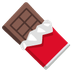
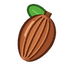
リラックスカカオの食材アイコンを自作アイコンへ変更
- tools/food-icons/make.py に draw_cacao() を追加し、Noto Emoji の板チョコ(🍫)から自作のカカオポッドアイコンへ差し替え
- crates/pokesle-app/assets/food/soothingcacao.png を再生成
- crates/pokesle-app/assets/food/README.md のライセンス一覧に soothingcacao.png (MIT) を追記

diff --git a/tools/food-icons/make.py b/tools/food-icons/make.py
@@ -34,7 +34,7 @@ MAPPING = {
     "pureoil.png": "draw:oil",           # ピュアなオイル: 自作
     "warmingginger.png": "1fada",        # あったかジンジャー: 🫚
     "snoozytomato.png": "1f345",         # あんみんトマト: 🍅
-    "soothingcacao.png": "1f36b",        # リラックスカカオ: 🍫
+    "soothingcacao.png": "draw:cacao",     # リラックスカカオ: 自作(カカオポッド)
     "slowpoketail.png": "draw:tail",     # おいしいシッポ: 自作
     "greengrasssoybeans.png": "cream:1fad8",  # ワカクサ大豆: 🫘 を本家に近いクリーム色に塗り替え
     "greengrasscorn.png": "1f33d",       # ワカクサコーン: 🌽
@@ -366,6 +366,97 @@ def draw_leek() -> Image.Image:
     return im.resize((128, 128), Image.LANCZOS)
 
 
+def draw_cacao() -> Image.Image:
+    """リラックスカカオの自作アイコン(縦筋のあるカカオポッド＋小さな葉)"""
+    im = Image.new("RGBA", (128 * S, 128 * S), (0, 0, 0, 0))
+    d = ImageDraw.Draw(im)
+    outline = (76, 32, 16)
+
+    cx0, cy0 = 64.0, 68.0
+    ang = math.radians(26.0)
+    ca, sa = math.cos(ang), math.sin(ang)
+
+    def pod_pt(along: float, across: float) -> tuple[float, float]:
+        # along: -1(上・ヘタ側) 〜 +1(下・先端側), across: 左右方向
+        x = cx0 + across * ca - along * 44.0 * sa
+        y = cy0 + across * sa + along * 44.0 * ca
+        return x, y
+
+    def pod_w(t: float) -> float:
+        base = max(0.0, 1.0 - t * t) ** 0.62
+        return 27.5 * base * (1.0 - 0.14 * t)
+
+    def pod_poly(expand: float = 0.0, shift_x: float = 0.0, scale_w: float = 1.0) -> list[tuple[float, float]]:
+        n = 60
+        left, right = [], []
+        for i in range(n + 1):
+            t = -1.0 + 2.0 * i / n
+            w = pod_w(t) * scale_w + expand
+            lx, ly = pod_pt(t, -w + shift_x)
+            rx, ry = pod_pt(t, w + shift_x)
+            left.append((lx * S, ly * S))
+            right.append((rx * S, ry * S))
+        return left + list(reversed(right))
+
+    # 1. 小さな葉(左上・奥側)
+    def leaf_poly(expand: float = 0.0) -> list[tuple[float, float]]:
+        pts = []
+        n = 48
+        lang = math.radians(-52.0)
+        lca, lsa = math.cos(lang), math.sin(lang)
+        lx0, ly0 = pod_pt(-0.92, -16.0)
+        for i in range(n):
+            th = 2 * math.pi * i / n
+            u = math.sin(th) * (10.5 + expand)
+            v = -math.cos(th) * (18.5 + expand)
+            pts.append(((lx0 + u * lca - v * lsa) * S, (ly0 + u * lsa + v * lca) * S))
+        return pts
+
+    d.polygon(leaf_poly(3.6), fill=(38, 86, 30))
+    d.polygon(leaf_poly(0.0), fill=(86, 172, 60))
+    # 葉脈
+    l_start = pod_pt(-0.88, -6.0)
+    l_end = pod_pt(-0.96, -28.0)
+    d.line([(l_start[0] * S, l_start[1] * S), (l_end[0] * S, l_end[1] * S)], fill=(134, 210, 92), width=2 * S)
+
+    # 2. ヘタ(右上)
+    stem_pts = [pod_pt(-0.88, -4.5), pod_pt(-1.18, -3.0), pod_pt(-1.18, 3.0), pod_pt(-0.88, 4.5)]
+    d.line([(pod_pt(-0.88, 0.0)[0] * S, pod_pt(-0.88, 0.0)[1] * S), (pod_pt(-1.18, 0.0)[0] * S, pod_pt(-1.18, 0.0)[1] * S)], fill=outline, width=13 * S)
+    d.polygon([(x * S, y * S) for x, y in stem_pts], fill=(128, 76, 40))
+
+    # 3. カカオポッド本体の縁取りとベース
+    d.polygon(pod_poly(expand=4.0), fill=outline)
+    d.polygon(pod_poly(expand=0.0), fill=(156, 78, 42))
+
+    # 左上側の明るい立体面と右下の影面
+    d.polygon(pod_poly(expand=0.0, shift_x=-3.5, scale_w=0.76), fill=(182, 98, 54))
+    d.polygon(pod_poly(expand=0.0, shift_x=-6.0, scale_w=0.45), fill=(198, 114, 66))
+
+    # 4. 縦のうね(溝とハイライトのペア)
+    for k in (-0.56, -0.18, 0.22, 0.60):
+        groove_pts = []
+        hi_pts = []
+        for i in range(41):
+            t = -0.88 + 1.76 * i / 40
+            w = pod_w(t)
+            gx, gy = pod_pt(t, k * w)
+            hx, hy = pod_pt(t, k * w - 2.6)
+            groove_pts.append((gx * S, gy * S))
+            hi_pts.append((hx * S, hy * S))
+        d.line(hi_pts, fill=(214, 134, 82), width=2 * S)
+        d.line(groove_pts, fill=(102, 44, 20), width=3 * S)
+
+    # 5. 左上のツヤ
+    shine_pts = []
+    for i in range(25):
+        t = -0.58 + 0.72 * i / 24
+        sx, sy = pod_pt(t, -pod_w(t) * 0.74)
+        shine_pts.append((sx * S, sy * S))
+    d.line(shine_pts, fill=(236, 172, 124), width=3 * S)
+
+    return im.resize((128, 128), Image.LANCZOS)
+
+
 def main():
     OUT.mkdir(parents=True, exist_ok=True)
     for name, src in MAPPING.items():
@@ -379,6 +470,8 @@ def main():
             im = draw_nuts()
         elif src == "draw:leek":
             im = draw_leek()
+        elif src == "draw:cacao":
+            im = draw_cacao()
         elif src.startswith("cream:"):
             im = cream(noto(src.removeprefix("cream:")))
         elif src.startswith("hue:"):

diff --git a/crates/pokesle-app/assets/food/README.md b/crates/pokesle-app/assets/food/README.md
@@ -5,7 +5,7 @@
 
 | ファイル | 元 | ライセンス |
 |---|---|---|
-| `pureoil.png` / `slowpoketail.png` / `moomoomilk.png` / `nuts.png` / `largeleek.png` | このリポジトリで描いたもの | MIT(このリポジトリの [LICENSE](../../../../LICENSE)) |
+| `pureoil.png` / `slowpoketail.png` / `moomoomilk.png` / `nuts.png` / `largeleek.png` / `soothingcacao.png` | このリポジトリで描いたもの | MIT(このリポジトリの [LICENSE](../../../../LICENSE)) |
 | `fancyegg.png` | Noto Emoji 🥚 (U+1F95A) の色を白に変更 | OFL-1.1 |
 | `greengrasssoybeans.png` | Noto Emoji 🫘 (U+1FAD8) の色をクリーム色に変更 | OFL-1.1 |
 | 上記以外 | Noto Emoji をそのまま縮小 | OFL-1.1 |
